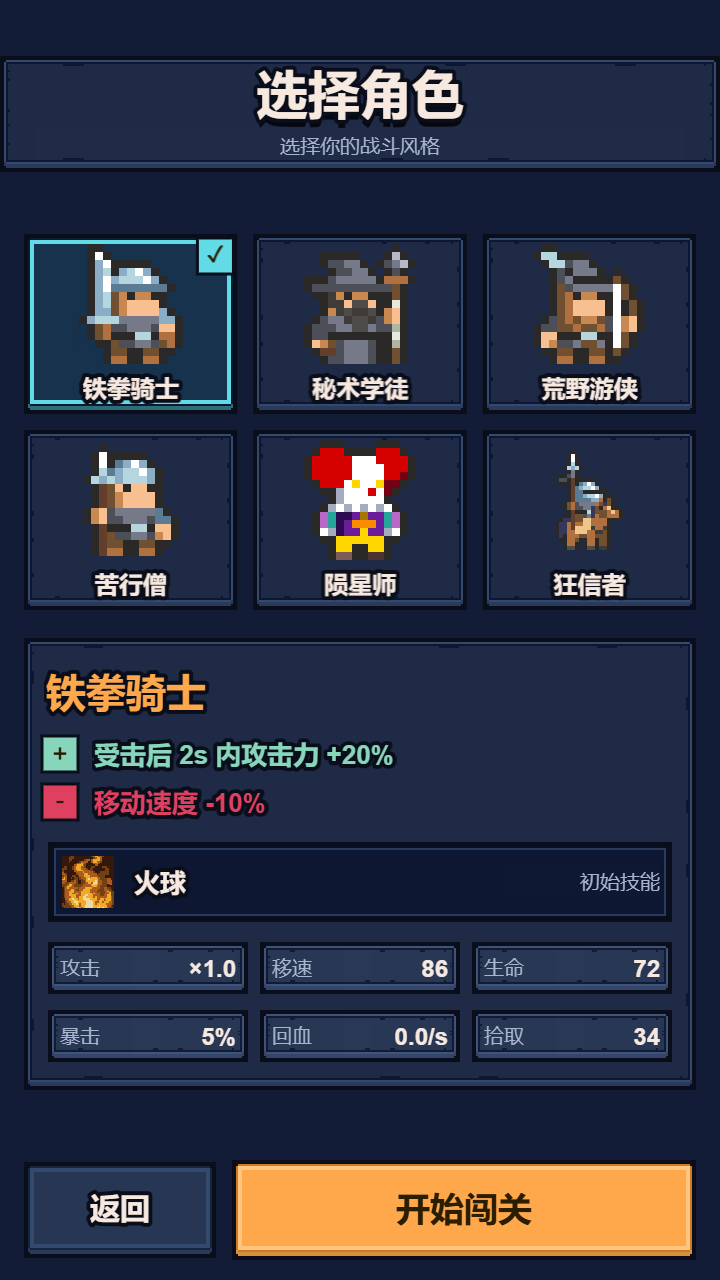
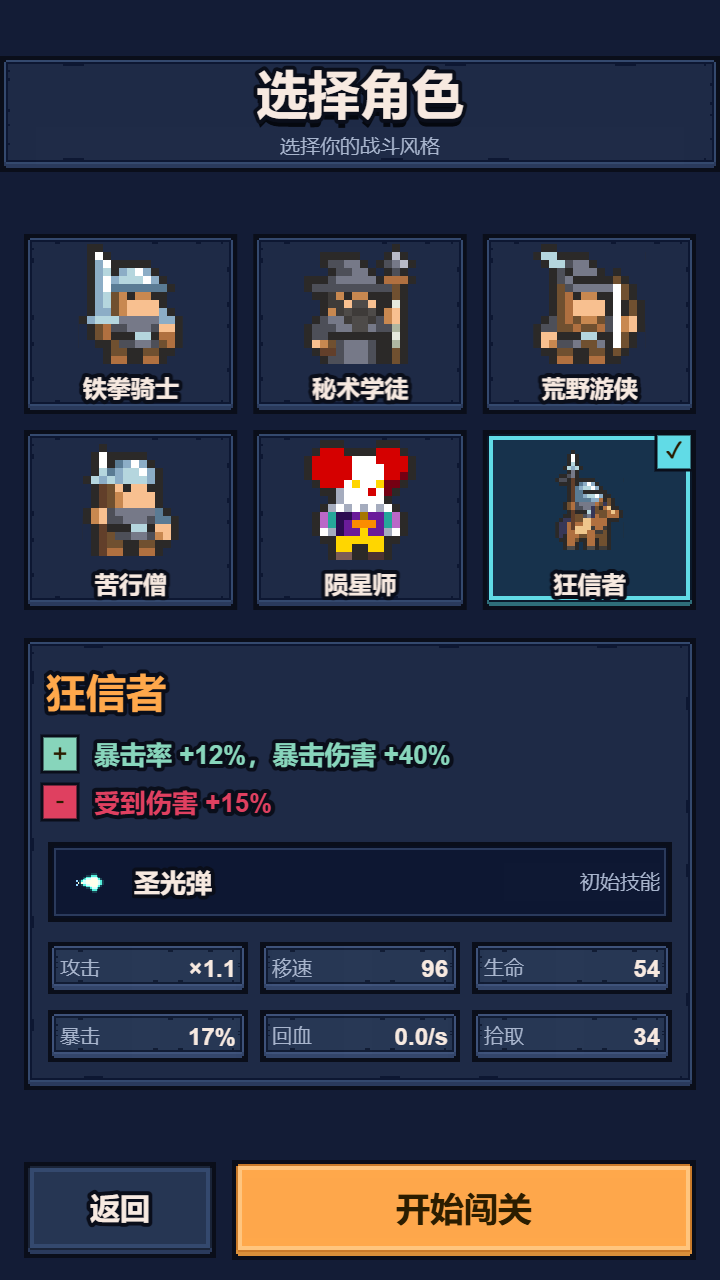
截图修正：角色选择已选态改用真实点击（原先 selectChar 不存在，三档截图重复）

diff --git a/docs/audits/ui_final_audit.md b/docs/audits/ui_final_audit.md
@@ -114,6 +114,10 @@ PASS 所有可点热区 ≥44×44、无越界、无意外重叠
 
 ## 3. 截图（`screenshots/ui-final/`，未覆盖旧基线）
 
+> 取证修正：第一轮 `charselect-sel` 是调用 `G.selectChar()` 生成的，但该方法**不存在**（返回 ERR 被忽略），
+> 导致三档的"已选"截图与"未选"**完全重复**（文件大小一致被发现）。已改为**真实点击第 6 张卡片**重拍，
+> 并用"选中徽标数 = 1"校验，现在两版文件大小不同、徽标只出现在被点的那张卡上。
+
 三档视口 × 20 种状态：`menu / howto / charselect / charselect-sel / settings / codex-1page / ach /
 hud-empty / hud-lowhp-boss / levelup / shop / drawer-skill / drawer-mod / drawer-item / drawer-attr /
 install / install-slot / replace / confirm / result-win / result-lose`
